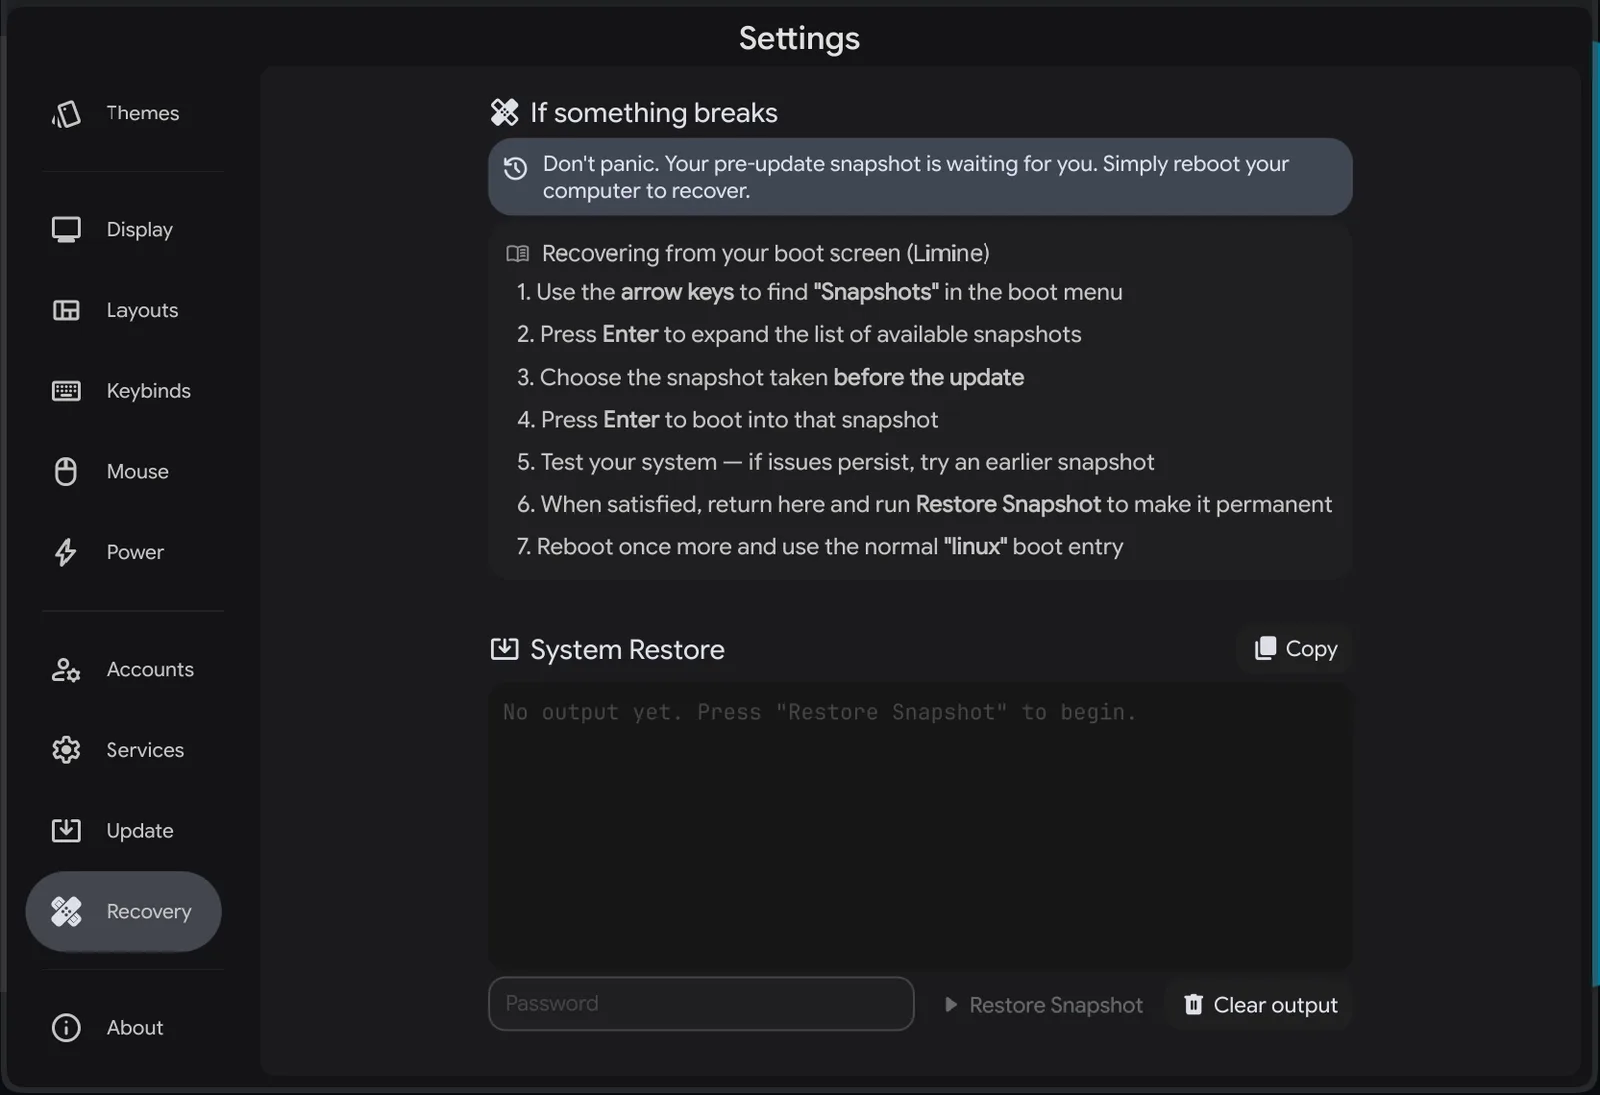
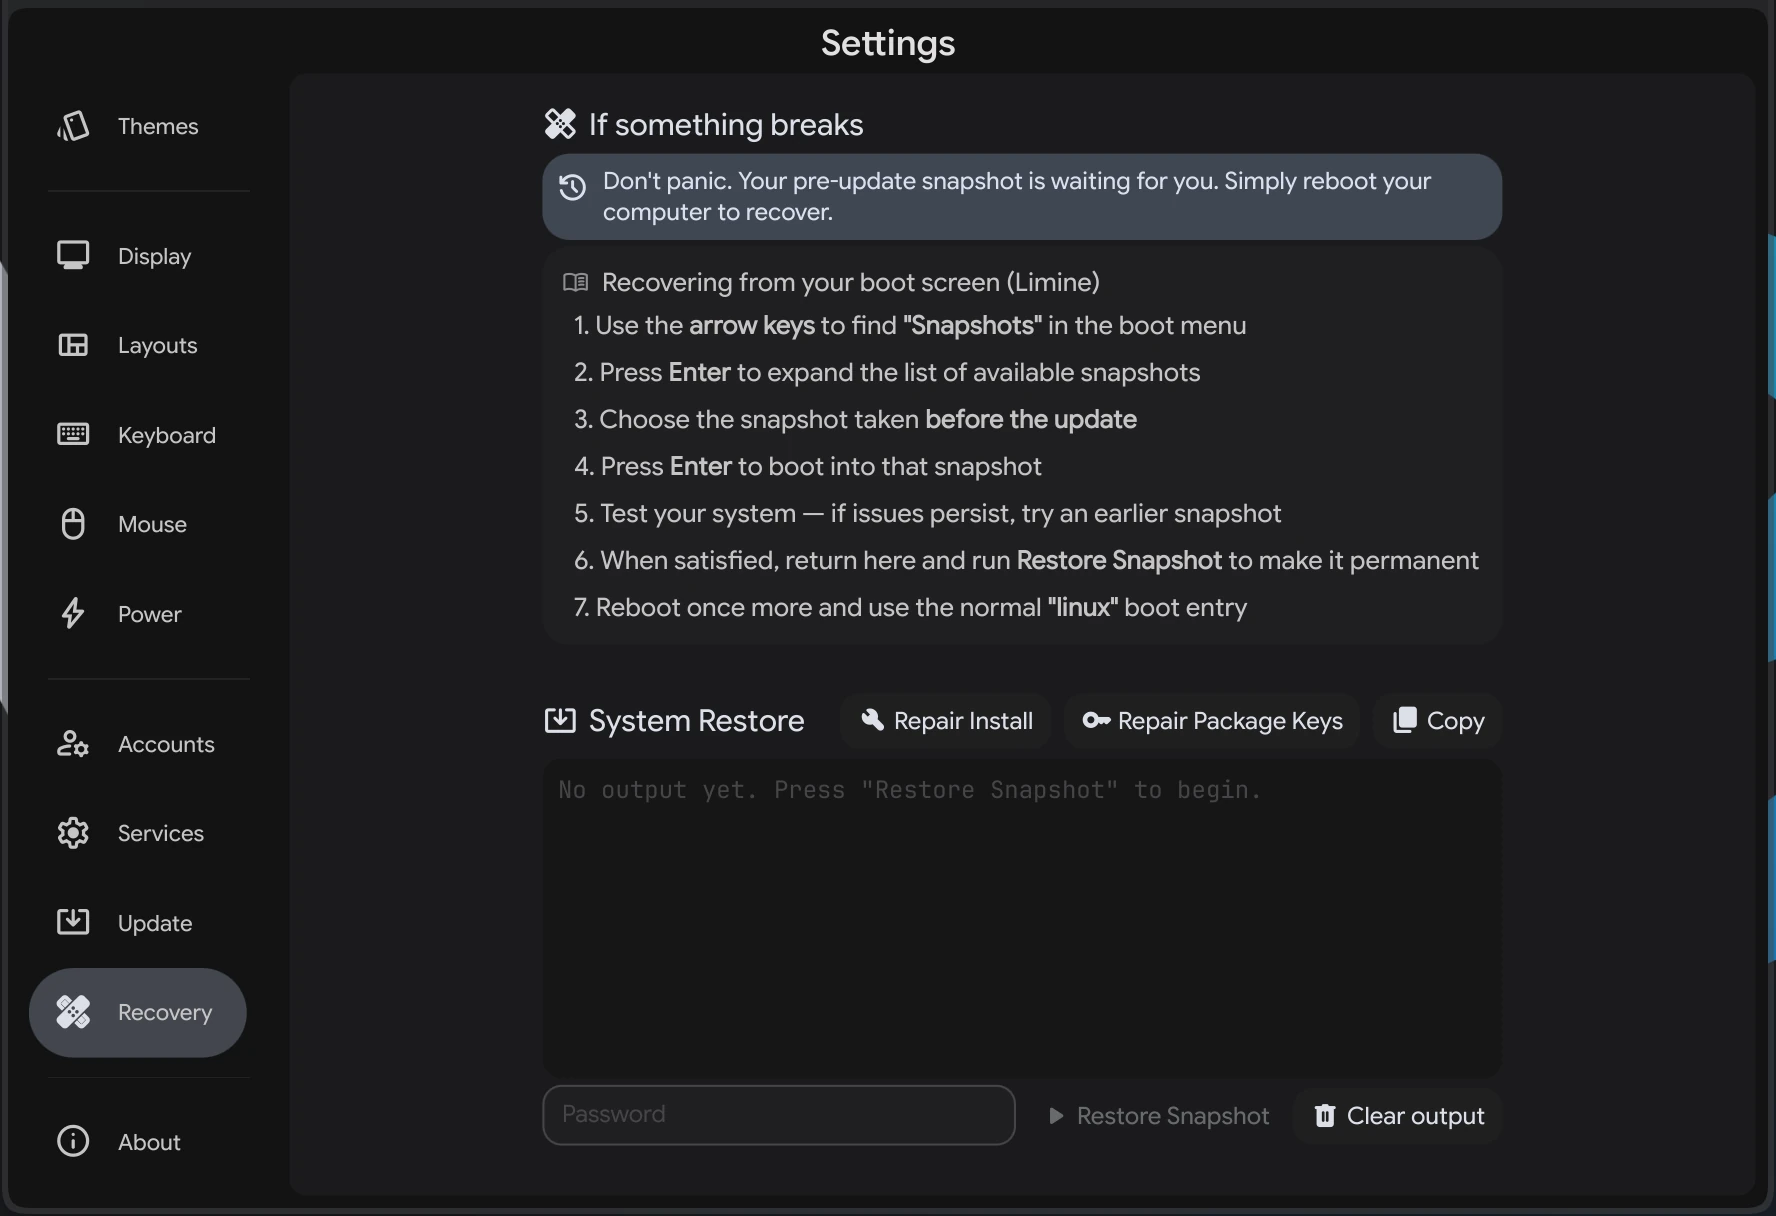
site: bring the 2.0.0 copy up to date
The blog is a living list of what Mainstream is, so the new work is
described as what the system does rather than what moved this release,
and release-specific news stays in the changelog.

The download figures are measured from the built images.

diff --git a/welcome-warm.js b/welcome-warm.js
@@ -20,7 +20,7 @@ PAGES.home = {
         <div class="cta-row">
           <a class="btn stream" href="https://mainstreamos.org/download">
             <svg viewBox="0 0 24 24" fill="none" stroke="currentColor" stroke-width="2"><path d="M12 3v12"/><path d="m6 10 6 6 6-6"/><path d="M4 21h16"/></svg>
-            Download · 2.9 GB
+            Download · 3.4 GB
           </a>
           <a class="btn ghost" href="#install-iso">Install guide →</a>
         </div>
@@ -179,8 +179,8 @@ PAGES['blog'] = {
   navTitle: 'Blog',
   lede: 'Release announcements and project updates.',
   render: () => `
-    <div class="eyebrow">Release &middot; 1.4.0 &middot; August 23, 2026</div>
-    <h2 id="mainstream-os-1-3-0">Mainstream OS 1.4.0 — a Linux desktop you set up by clicking</h2>
+    <div class="eyebrow">Release &middot; 2.0.0 &middot; September 3, 2026</div>
+    <h2 id="mainstream-os-2-0-0">Mainstream OS 2.0.0 — a Linux desktop you set up by clicking</h2>
 
     <p>Mainstream OS is a Linux operating system built on Arch. Its desktop is Hyprland — the software that arranges your windows and decides where they go — and Hyprland is normally set up by hand, by editing text files. Here you set it up by clicking: displays, window layouts, keyboard shortcuts, the bar, the look of the whole interface, updates and repairs each get a proper settings page — a settings app, not a config file, and never a terminal. Pick a wallpaper and the whole desktop takes its colors from it. One keypress hands the machine over to a full-screen Steam session for gaming, and a graphical installer puts it all on your computer in a few minutes. <strong>Deeply featured. Genuinely friendly.</strong></p>
 
@@ -197,6 +197,7 @@ PAGES['blog'] = {
       <li><strong>Themes.</strong> Your whole look — wallpaper, colors, app style, icons, interface changes, and now the shape, transparency, blur, dim, borders, shadow, animations, window rules and which edge the dock sits on as well — saves under a name with a preview, and switches back in one tap.</li>
       <li><strong>Take your look with you.</strong> A theme saves out to a single file you can hand to someone else, wallpaper included, with anything particular to your machine left behind.</li>
       <li><strong>Day and Night.</strong> Pair two themes and let them follow the clock or your night-light schedule.</li>
+      <li><strong>Themes carry all of it.</strong> A theme takes every bar, dock and title bar setting with it: style, color, transparency, shape and behavior.</li>
     </ul>
     <figure>
       <div class="shot">
@@ -214,6 +215,13 @@ PAGES['blog'] = {
       <li><strong>App style, icons and pointer.</strong> All three are dropdowns in Settings, with pointer sizes limited to the ones your chosen pointer can actually be drawn at.</li>
       <li><strong>Fonts.</strong> A searchable list that shows each font in its own lettering, and your choice carries into your apps rather than stopping at the desktop.</li>
       <li><strong>A built-in window rule editor.</strong> Most desktops leave per-app rules to a config file you edit by hand. Here it is a page in Settings: teach one app where to open, whether it floats, how see-through it is, and what it is allowed to do.</li>
+      <li><strong>Four bar styles.</strong> Hug, Float, Rect, or Notch, which sits on the screen edge and curves away from it.</li>
+      <li><strong>A bar you can paint.</strong> Set the shape, transparency, color and width of the bar and of each widget on it.</li>
+      <li><strong>A bar in three pieces.</strong> Any floating bar can be split into three strips.</li>
+      <li><strong>A settings page for the dock.</strong> Size, shape, corner roundness, transparency and color, all in one place.</li>
+      <li><strong>Three dock styles.</strong> Float, Rect or Notch.</li>
+      <li><strong>A dock that behaves how you like.</strong> Set how far an icon grows on hover and whether hovering magnifies or glows, mark open windows with dashes, dots or a count badge, choose the animation when you click an app, and turn the buttons on either side on or off.</li>
+      <li><strong>Title bars in your colors.</strong> Set their color and how far you can see through them, and return to stock in one press.</li>
     </ul>
     ${shot('BarConfig-1.webp','The bar widget layout editor in Settings, showing Simple and Custom modes and the widget list','The bar layout editor. Drag two pieces together and they join into one.')}
 
@@ -250,6 +258,7 @@ PAGES['blog'] = {
       <li><strong>Pick up where you left off.</strong> Sign out or restart and your windows reopen on the workspaces they were on. The session is written down as you work, so a crash costs you no more than a tidy sign-out would.</li>
       <li><strong>Move files between your devices.</strong> Send several at once to any phone, tablet, or computer on your network running <a href="https://localsend.org">LocalSend</a>, and receive from them the same way, with live progress and no cloud in the middle. Mainstream builds LocalSend into the desktop rather than bundling the app.</li>
       <li><strong>Auto Mount and Uninstall Apps</strong>, two small apps for the fiddly parts: drives that are ready at every login, and removing software without breaking the desktop.</li>
+      <li><strong>AI in the sidebar.</strong> Sign in to Claude or ChatGPT with a subscription you already have and no API key to paste, or follow a guided setup for free local AI with Ollama, where nothing you type leaves the computer.</li>
     </ul>
     <figure>
       <div class="shot">
@@ -274,10 +283,11 @@ PAGES['blog'] = {
       <li><strong>Repair Install.</strong> One button re-runs the desktop setup and rebuilds its parts.</li>
       <li><strong>Signed downloads and software.</strong> Every release is signed with checksums published alongside it, and everything Mainstream adds arrives ready-built and signed — the <a href="#verify">verify page</a> shows how to check yours.</li>
       <li><strong>A self-check after every install</strong> that writes you a health report, so a bad install tells you rather than failing quietly.</li>
+      <li><strong>A firewall you can see into.</strong> Every install runs firewalld, and a <a href="#firewall">page on the site</a> explains exactly what it is doing for you.</li>
     </ul>
 
     <h2>Get it</h2>
-    <p><a href="https://mainstreamos.org/download"><strong>Download Mainstream OS 1.4.0</strong></a> — 2.9&nbsp;GB, for 64-bit PCs. The <a href="#install-iso">install guide</a> walks through every step with pictures, and the <a href="#changelog">changelog</a> lists everything this release changed.</p>
+    <p><a href="https://mainstreamos.org/download"><strong>Download Mainstream OS 2.0.0</strong></a> — 3.4&nbsp;GB, for 64-bit PCs. The <a href="#install-iso">install guide</a> walks through every step with pictures, and the <a href="#changelog">changelog</a> lists everything this release changed.</p>
 
     <h2>Everything that changed</h2>
     <p>This page is what Mainstream is, not what moved in any one release. For that — every version, and the commits behind each one — see the <a href="#changelog">changelog</a>.</p>

diff --git a/docs-pages.js b/docs-pages.js
@@ -249,8 +249,8 @@ PAGES['install-iso'] = {
     <table class="t">
       <thead><tr><th>Image</th><th>Size</th><th>Best for</th></tr></thead>
       <tbody>
-        <tr><td><a href="https://sourceforge.net/projects/mainstreamos/files/" style="color:var(--stream-a);text-decoration:underline"><b>mainstream-x.x.x.iso</b></a></td><td>2.9 GB</td><td>Most modern laptops &amp; desktops</td></tr>
-        <tr><td><a href="https://sourceforge.net/projects/mainstreamos/files/legacy-nvidia/" style="color:var(--stream-a);text-decoration:underline"><b>mainstream-legacy-nvidia-x.x.x.iso</b></a></td><td>4.1 GB</td><td>Older NVIDIA cards, back to the GeForce 400 series (experimental)</td></tr>
+        <tr><td><a href="https://sourceforge.net/projects/mainstreamos/files/" style="color:var(--stream-a);text-decoration:underline"><b>mainstream-x.x.x.iso</b></a></td><td>3.4 GB</td><td>Most modern laptops &amp; desktops</td></tr>
+        <tr><td><a href="https://sourceforge.net/projects/mainstreamos/files/legacy-nvidia/" style="color:var(--stream-a);text-decoration:underline"><b>mainstream-legacy-nvidia-x.x.x.iso</b></a></td><td>4.8 GB</td><td>Older NVIDIA cards, back to the GeForce 400 series (experimental)</td></tr>
       </tbody>
     </table>
 
@@ -270,7 +270,7 @@ PAGES['install-iso'] = {
     <h2>Turn off Microsoft's Secure Boot feature</h2>
     <p>Most computers will only start operating systems Microsoft has signed, a setting called <strong>Secure Boot</strong>. Mainstream isn\'t on that list, so switch it off first or the machine will ignore your USB stick. This is normal for Linux installs; nothing is wrong with your download.</p>
     <ol>
-      <li><strong>Restart</strong> and tap the firmware key while the machine powers on. It is usually <code>F2</code>; HP uses <code>F10</code>, most desktops use <code>Del</code>, and many machines show the key on screen for a moment.</li>
+      <li><strong>Restart</strong> and tap the BIOS key while the machine powers on. It is usually <code>F2</code>; HP uses <code>F10</code>, most desktops use <code>Del</code>, and many machines show the key on screen for a moment.</li>
       <li><strong>Find Secure Boot</strong>, usually under a <strong>Security</strong> or <strong>Boot</strong> tab, and set it to <strong>Disabled</strong>.</li>
       <li><strong>Save and exit</strong>, usually <code>F10</code>. The computer restarts.</li>
     </ol>
@@ -1290,6 +1290,21 @@ PAGES.recovery = {
 
     <h2>System Restore</h2>
     <p>The lower panel shows the live output when you hit <strong>Restore Snapshot</strong>. <strong>Copy</strong> grabs the log, <strong>Clear output</strong> wipes the pane.</p>
+
+    <h2>Updates fail with a key error</h2>
+    <p>If an update stops with <code>key "D644BEB9..." is unknown</code>, <code>missing required signature</code>, or <code>GPGME error</code>, the signing key for the Mainstream package repository is not trusted on your machine. Because pacman refuses the whole transaction when one repository fails to verify, this blocks <em>every</em> repository, so nothing updates at all.</p>
+
+    <p>Open <strong>Settings &rarr; Recovery</strong> and press <strong>Repair Package Keys</strong>. It rebuilds the keyring, re-imports the Mainstream key, and confirms the repository verifies before handing control back. Or run the same thing from a terminal:</p>
+<pre><code><span class="k">sudo</span> mainstream-keyring-repair</code></pre>
+
+    <p>The system also checks itself every six hours and after each boot, so a machine left alone repairs itself without anyone pressing anything.</p>
+
+    ${callout('tip','On an install from an older ISO','<p>Machines installed before this check shipped may not have the command yet. Run this instead, once, and the repair command arrives with your next update:</p><pre><code><span class="k">sudo</span> gpgconf --homedir /etc/pacman.d/gnupg --kill all\n<span class="k">sudo</span> rm -rf /etc/pacman.d/gnupg\n<span class="k">sudo</span> pacman-key --init\n<span class="k">sudo</span> pacman-key --populate archlinux\n<span class="k">sudo</span> pacman-key --add /usr/local/share/mainstream.pub\n<span class="k">sudo</span> pacman-key --lsign-key D644BEB9C1B7668E3A6C16DA8D567345B265848E\n<span class="k">sudo</span> pacman-key --updatedb\n<span class="k">sudo</span> rm -f /var/lib/pacman/sync/mainstream.db*\n<span class="k">sudo</span> pacman -Syu</code></pre>')}
+
+    <p>To confirm the key is trusted, this should print <code>[  full  ]</code> next to the Mainstream identity:</p>
+<pre><code><span class="k">gpg</span> --homedir /etc/pacman.d/gnupg --list-keys D644BEB9C1B7668E3A6C16DA8D567345B265848E</code></pre>
+
+    <p>If the key still cannot be verified, Mainstream switches its own repository off rather than accepting unverified packages, and the rest of the system keeps updating normally. The update summary says so, and the repository comes back on its own once the key is trusted again.</p>
 
     <h2>Manual snapshot management</h2>
 <pre><code><span class="c"># List all snapshots</span>
